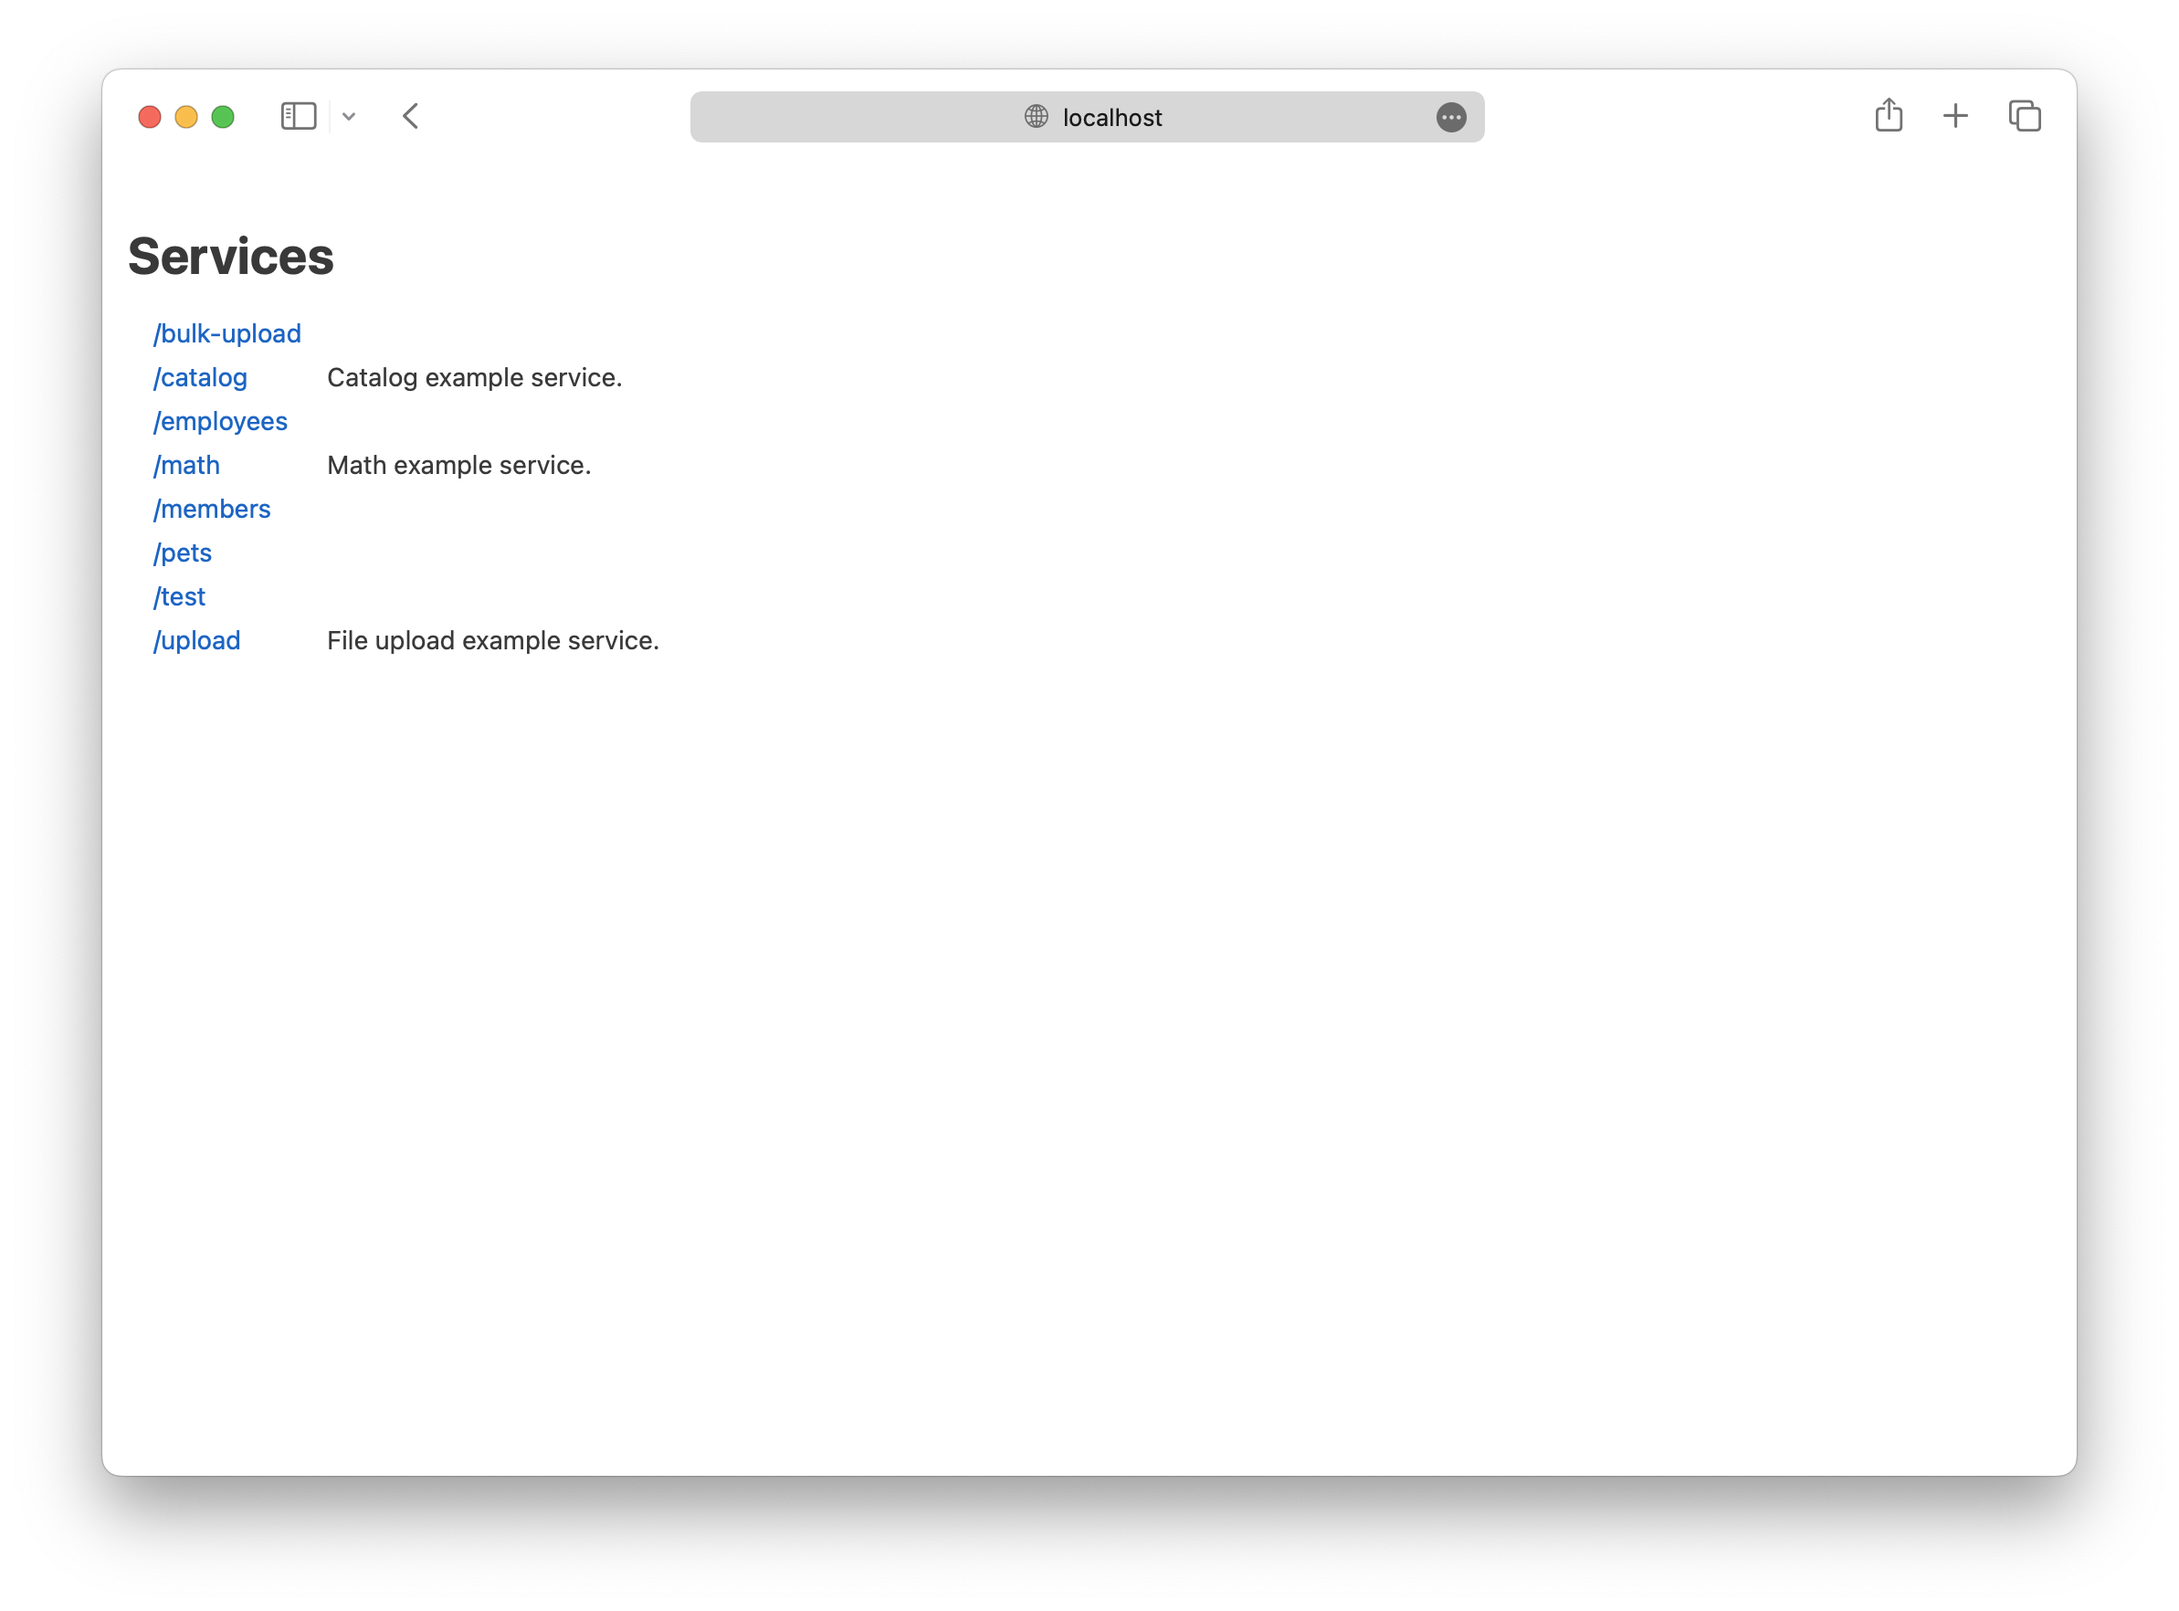
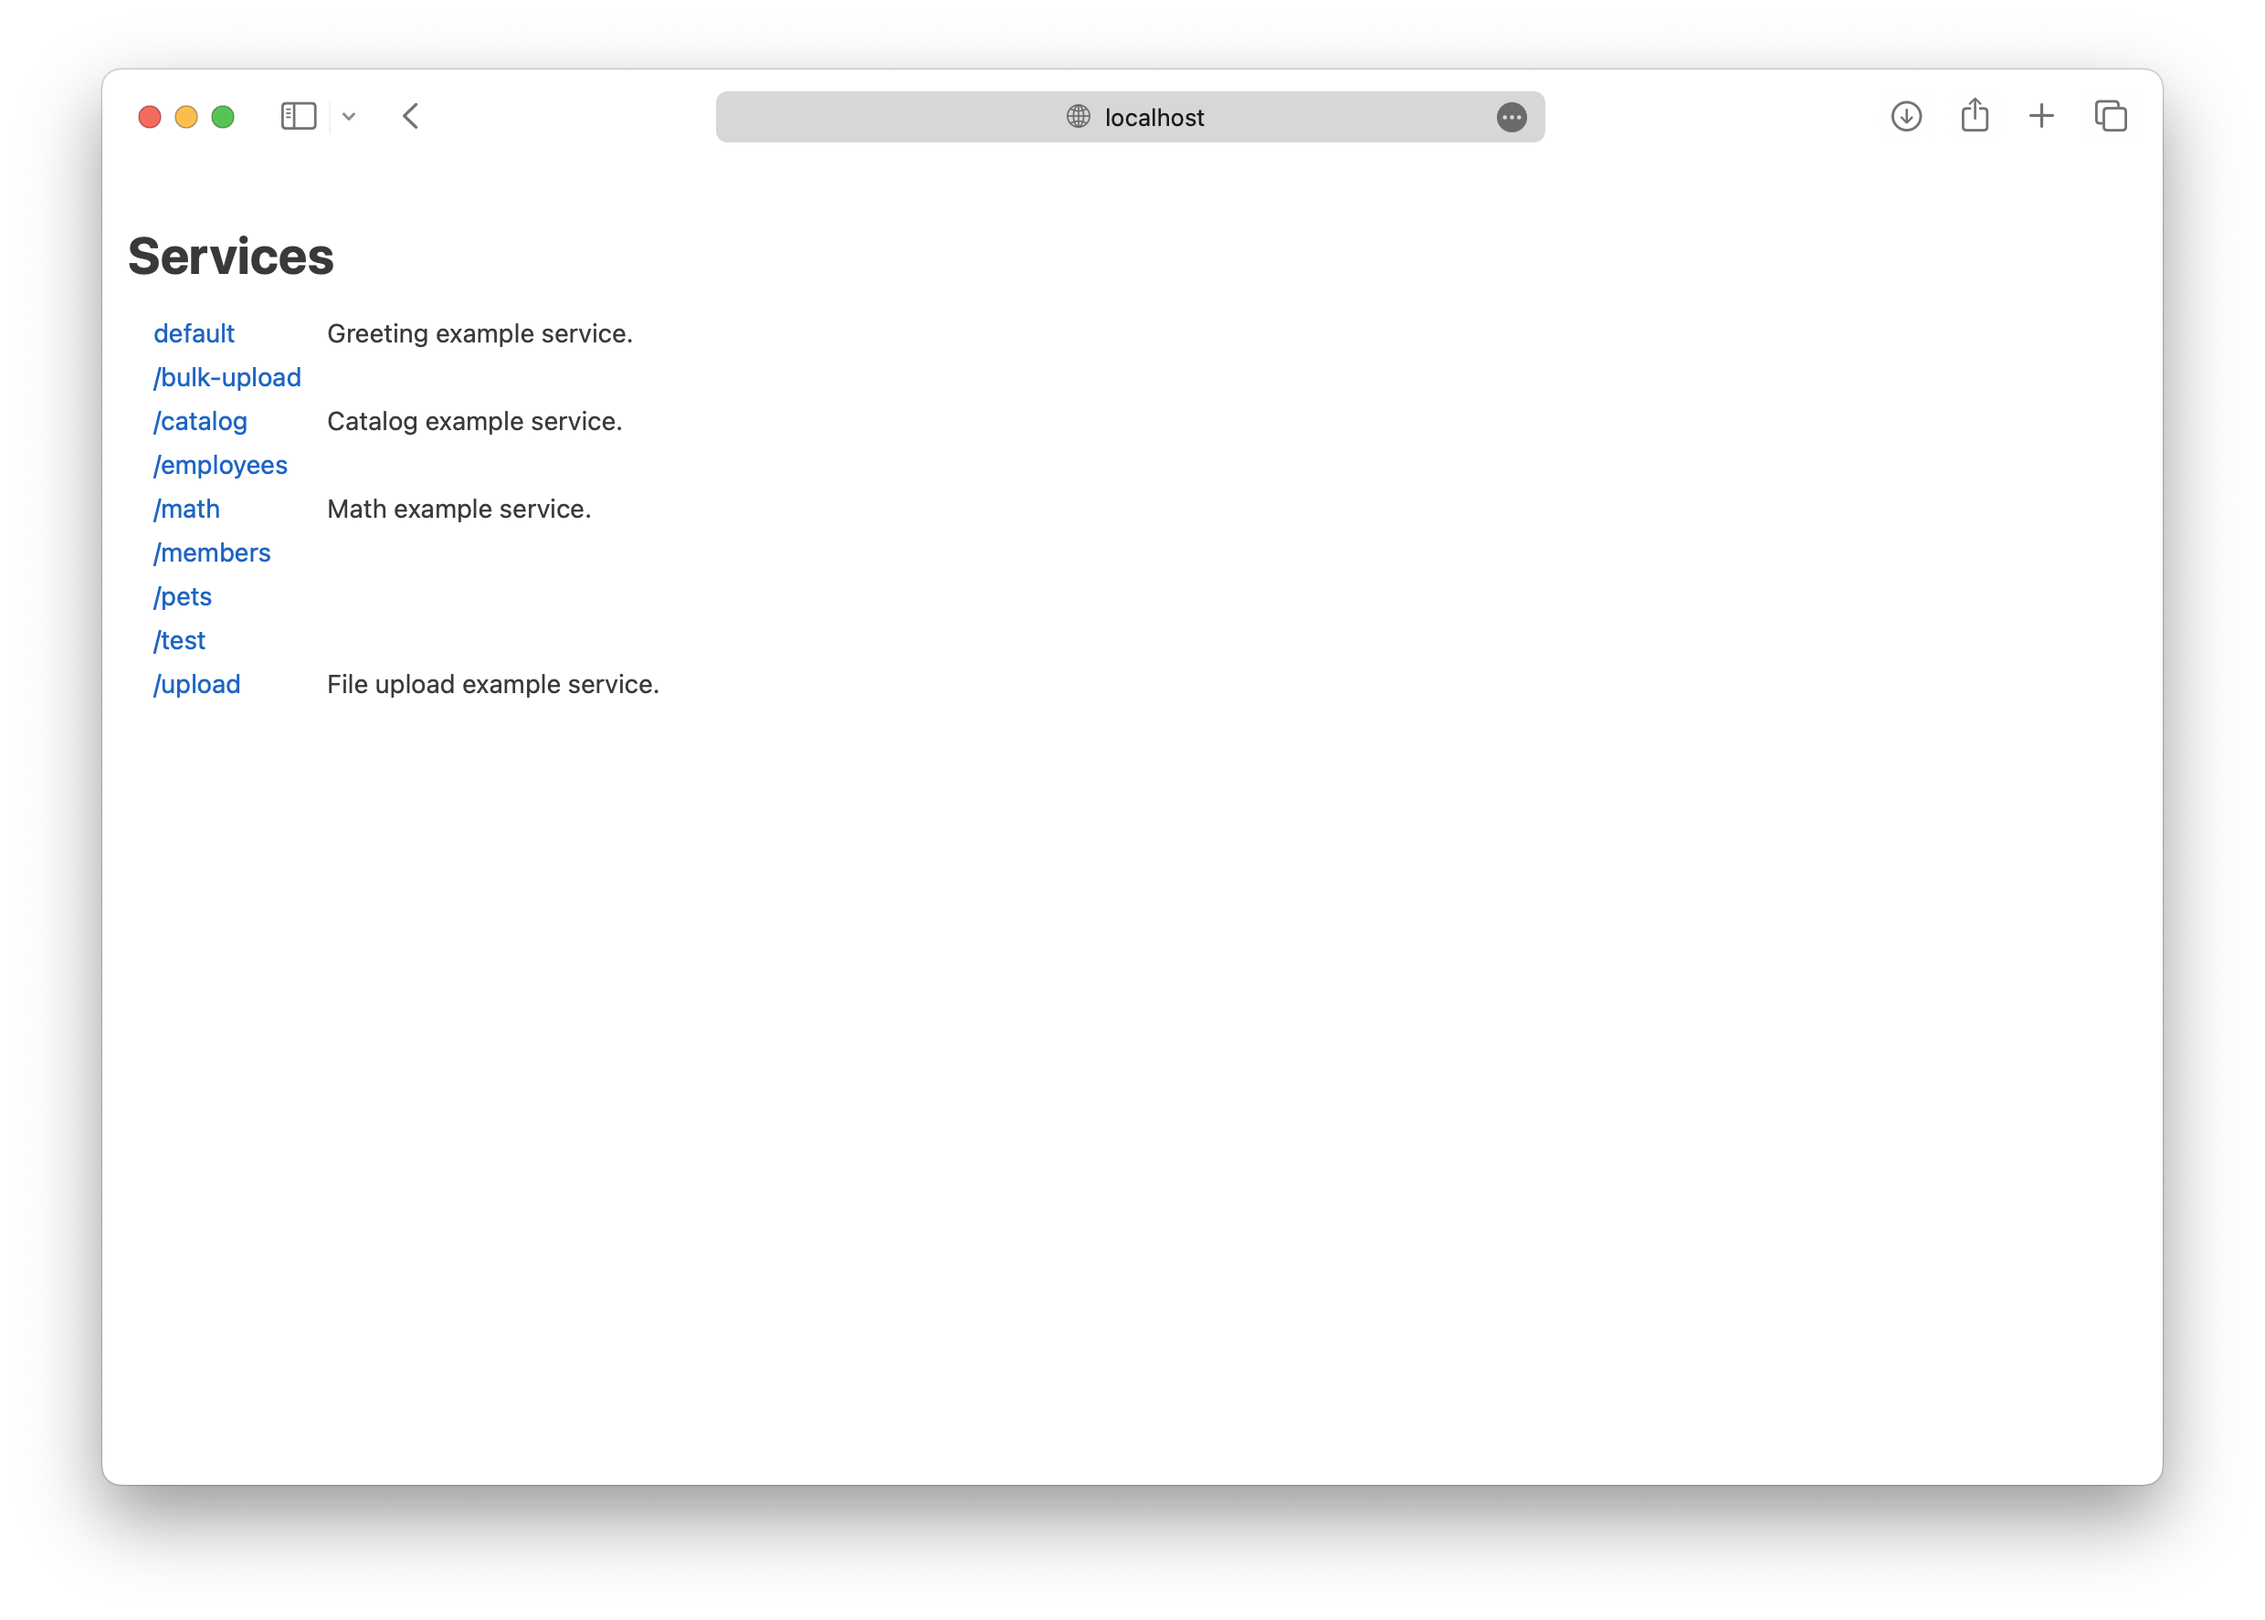
Ensure that default servlet is handled correctly.

diff --git a/kilo-server/src/main/resources/org/httprpc/kilo/index.html b/kilo-server/src/main/resources/org/httprpc/kilo/index.html
@@ -43,7 +43,7 @@
   <h1>{{@services}}</h1>
   <ol>
     <!-- {{#services}} -->
-    <li><a href="{{contextPath}}{{path}}?api">{{path}}</a><span>{{description}}</span></li>
+    <li><a href="{{contextPath}}{{path}}?api">{{?path}}{{.}}{{/path}}{{^path}}{{@default}}{{/path}}</a><span>{{description}}</span></li>
     <!-- {{/services}} -->
   </ol>
 </div>

diff --git a/kilo-server/src/main/resources/org/httprpc/kilo/api.html b/kilo-server/src/main/resources/org/httprpc/kilo/api.html
@@ -173,7 +173,7 @@
 <body>
 <!-- {{?service}} -->
 <div id="toc">
-  <p><a href="{{contextPath}}">{{@services}}</a></p>
+  <p><a href="{{contextPath}}/">{{@services}}</a></p>
   <ol>
     <li><a href="#endpoints">{{@endpoints}}</a>
       <ol>

diff --git a/kilo-test/src/main/java/org/httprpc/kilo/test/GreetingService.java b/kilo-test/src/main/java/org/httprpc/kilo/test/GreetingService.java
@@ -1,0 +1,30 @@
+/*
+ * Licensed under the Apache License, Version 2.0 (the "License");
+ * you may not use this file except in compliance with the License.
+ * You may obtain a copy of the License at
+ *
+ *    http://www.apache.org/licenses/LICENSE-2.0
+ *
+ * Unless required by applicable law or agreed to in writing, software
+ * distributed under the License is distributed on an "AS IS" BASIS,
+ * WITHOUT WARRANTIES OR CONDITIONS OF ANY KIND, either express or implied.
+ * See the License for the specific language governing permissions and
+ * limitations under the License.
+ */
+
+package org.httprpc.kilo.test;
+
+import jakarta.servlet.annotation.WebServlet;
+import org.httprpc.kilo.Description;
+import org.httprpc.kilo.RequestMethod;
+import org.httprpc.kilo.WebService;
+
+@WebServlet(urlPatterns = {"/*"}, loadOnStartup = 1)
+@Description("Greeting example service.")
+public class GreetingService extends WebService {
+    @RequestMethod("GET")
+    @Description("Returns a friendly greeting.")
+    public String getGreeting() {
+        return "Hello, World!";
+    }
+}

diff --git a/kilo-server/src/main/java/org/httprpc/kilo/WebService.java b/kilo-server/src/main/java/org/httprpc/kilo/WebService.java
@@ -735,9 +735,7 @@ public abstract class WebService extends HttpServlet {
     public void init() throws ServletException {
         var type = getClass();
 
-        var webServlet = type.getAnnotation(WebServlet.class);
-
-        var urlPatterns = webServlet.urlPatterns();
+        var urlPatterns = Optionals.map(type.getAnnotation(WebServlet.class), WebServlet::urlPatterns, new String[0]);
 
         if (urlPatterns.length == 0) {
             throw new ServletException("At least one URL pattern is required.");
@@ -745,7 +743,7 @@ public abstract class WebService extends HttpServlet {
 
         var path = urlPatterns[0];
 
-        if (!path.startsWith("/") && (path.length() == 1 || path.endsWith("/*"))) {
+        if (!(path.startsWith("/") && path.endsWith("/*"))) {
             throw new ServletException("Invalid URL pattern.");
         }
 

diff --git a/README.md b/README.md
@@ -256,7 +256,7 @@ A reference to any service annotated with `jakarta.servlet.annotation.WebServlet
 An index of all active services can be found at the application's context root:
 
 ```
-GET http://localhost:8080/kilo-test
+GET http://localhost:8080/kilo-test/
 ```
 
 <img src="README/api-index.png" width="640px"/>
